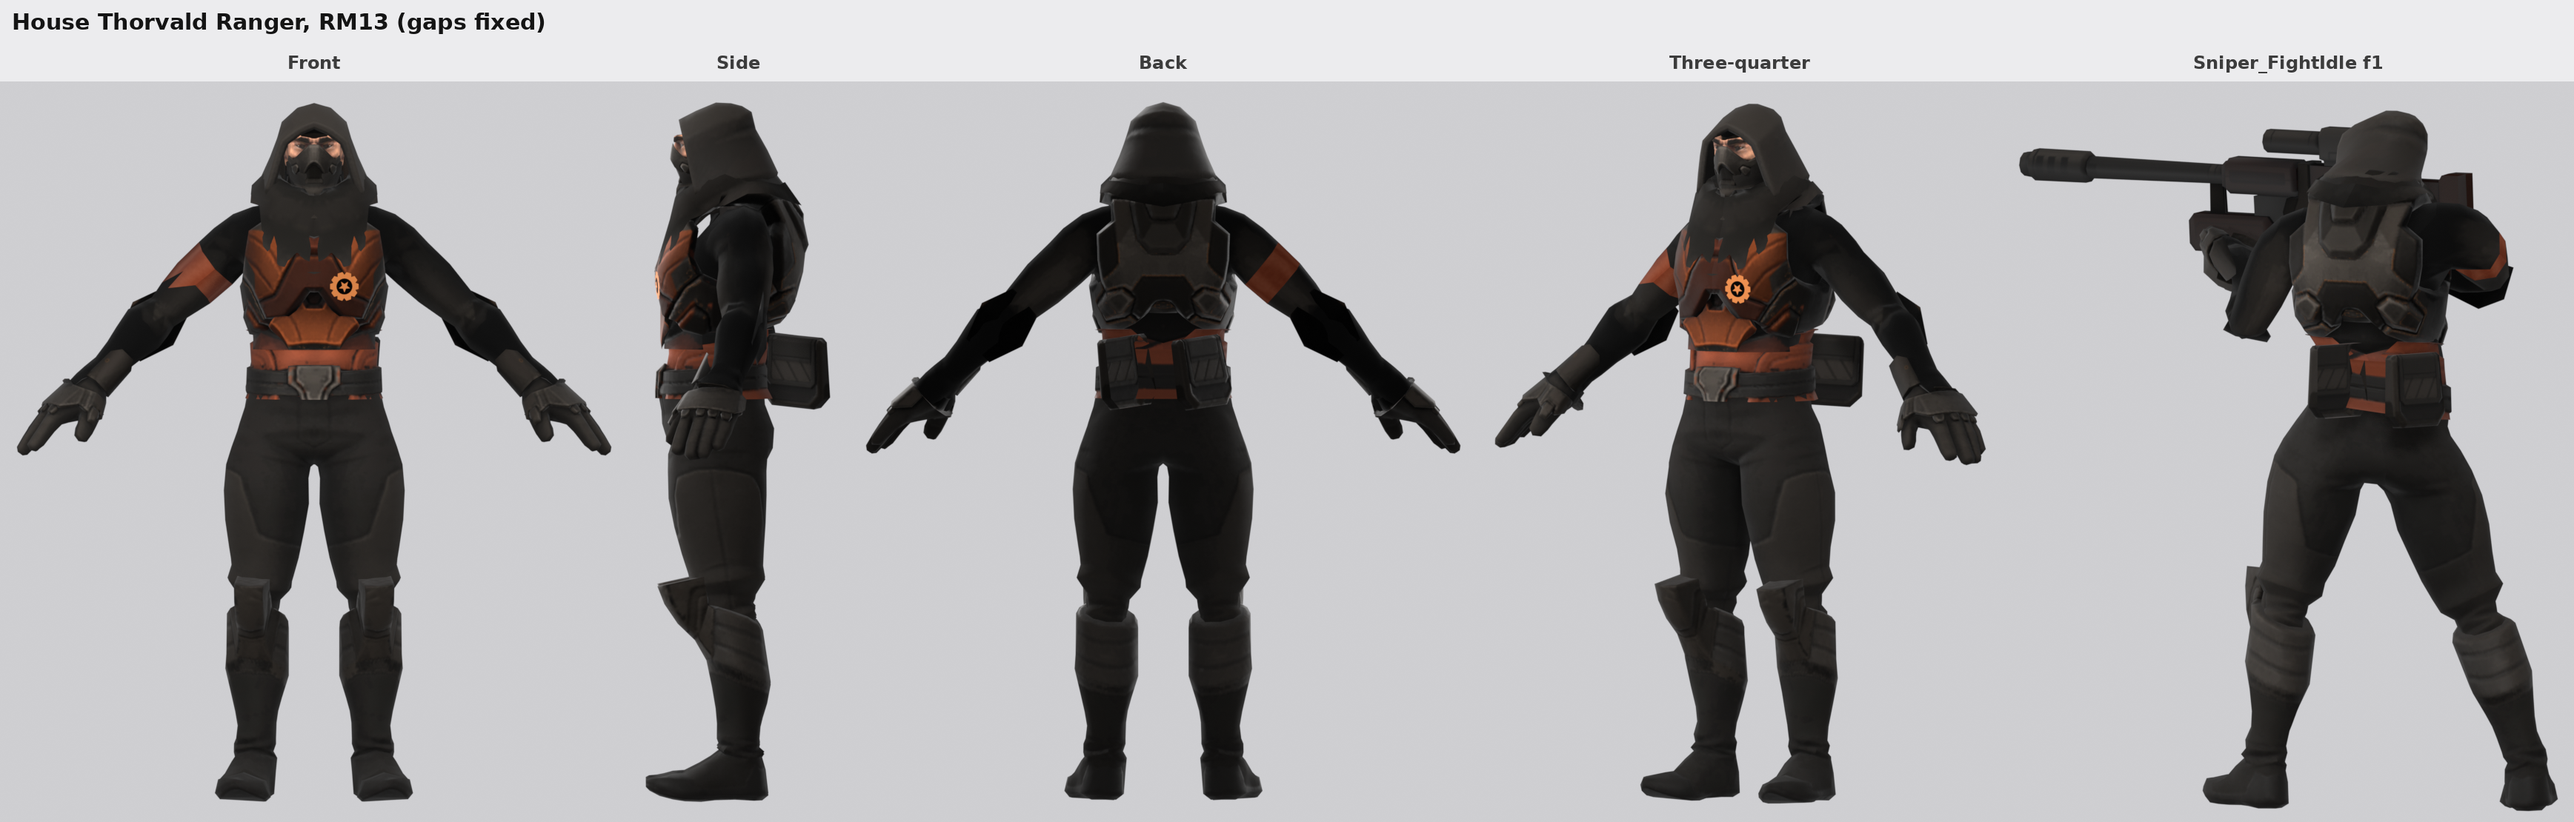
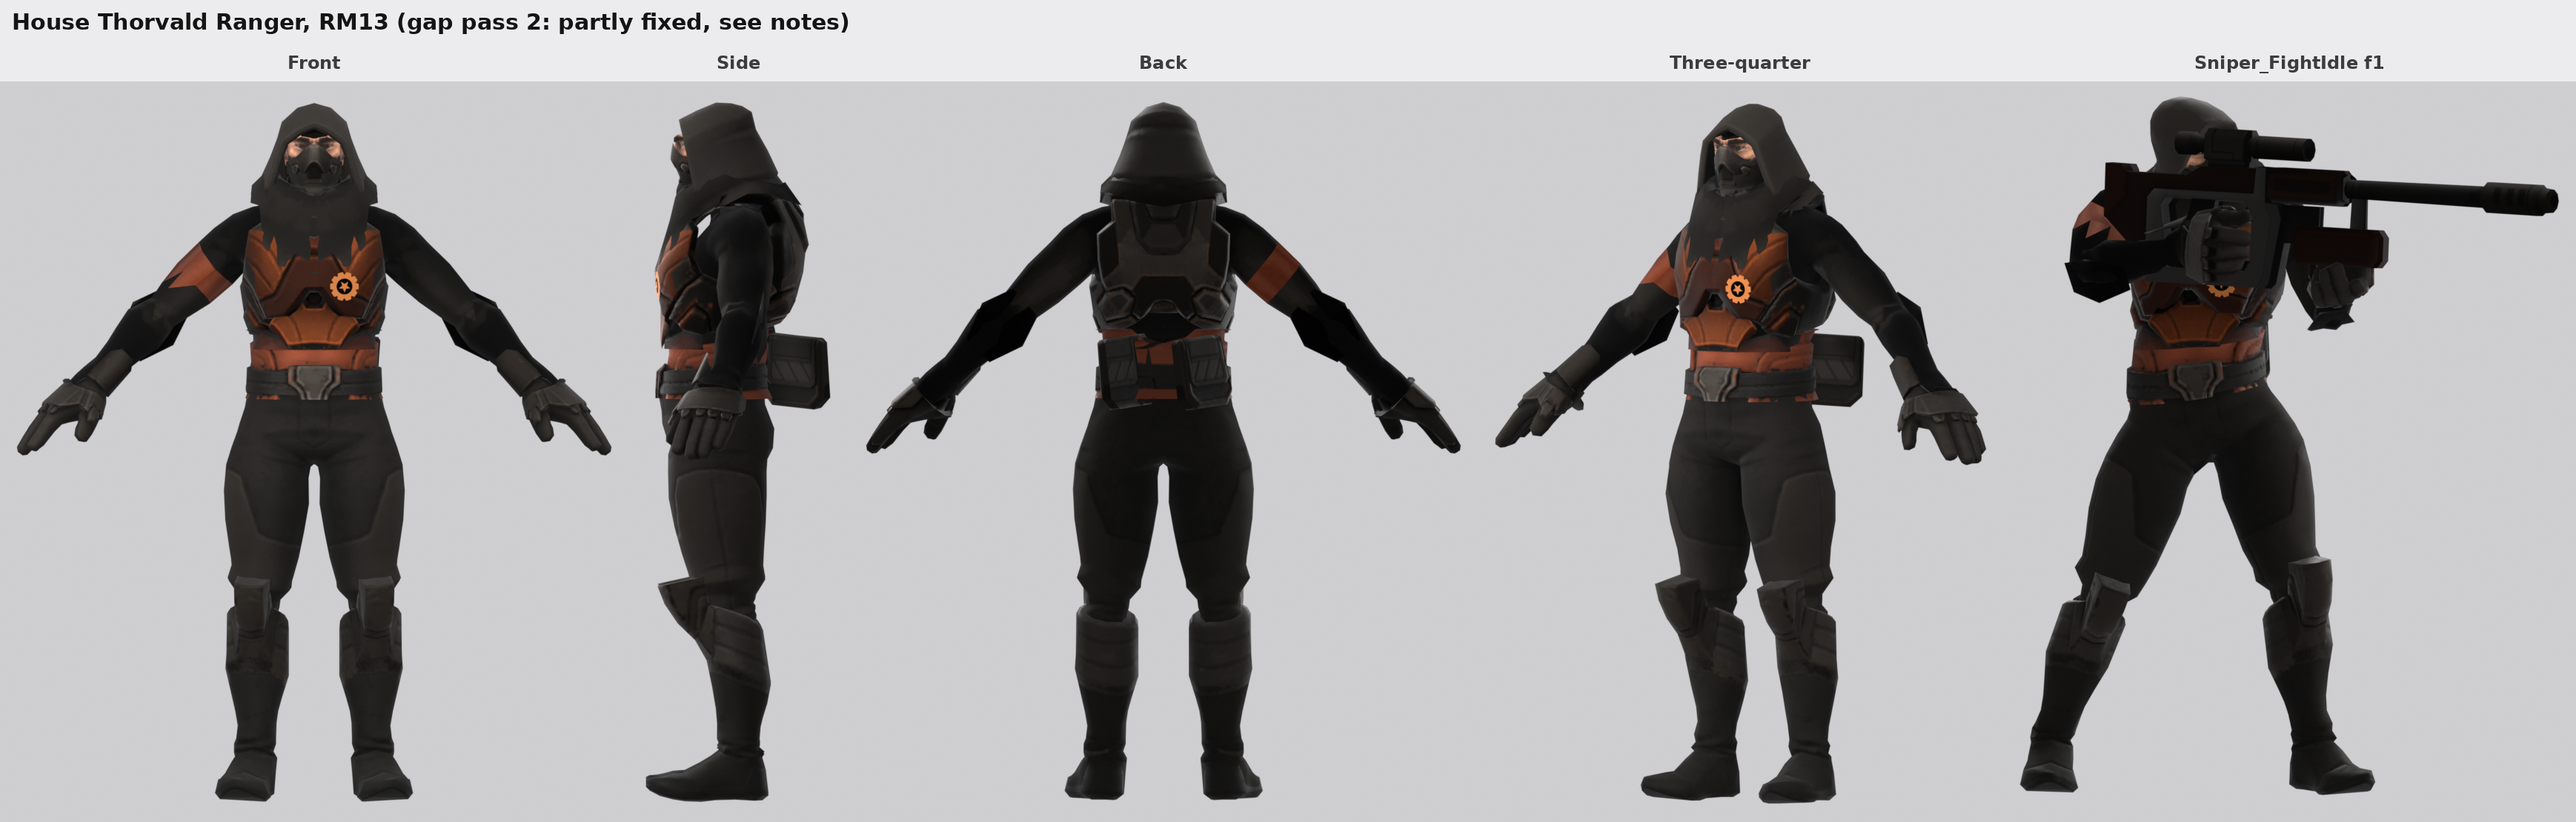
fix(dsw-model-qa): posed turnaround panel faces front; note open colour shards in the example
Claude-Session: https://claude.ai/code/session_01WAGFv9hvv5B7N4aZJzLptU

diff --git a/.claude/skills/dsw-model-qa/scripts/turnaround.py b/.claude/skills/dsw-model-qa/scripts/turnaround.py
@@ -42,7 +42,8 @@ for o in hidden:
 for spec in poses:
     clip, fr = spec.rsplit(":", 1)
     Q.pose_clip(clip, fr, anim_dir)
-    panels.append(("%s f%s" % (os.path.basename(clip).replace(".fbx", ""), fr), render("pose_%s_%s" % (os.path.basename(clip), fr), (0.6, -0.8, 0.08))))
+    # the game clips turn the unit to face +Y (rest pose faces -Y), so the front three-quarter of a posed unit is seen from +Y
+    panels.append(("%s f%s" % (os.path.basename(clip).replace(".fbx", ""), fr), render("pose_%s_%s" % (os.path.basename(clip), fr), (-0.6, 0.8, 0.08))))
 
 
 def crop(im):

diff --git a/.claude/skills/dsw-model-qa/references/example_thorvald_ranger.md b/.claude/skills/dsw-model-qa/references/example_thorvald_ranger.md
@@ -31,7 +31,9 @@ anything on the rifle. Real:
 - `weld_weights` at the nape changed 10 Gurney weights: the boundary verts there already shared weights, so the gap is not a weight split
   between those panels. Find it with `loops_near.py` on the posed position before choosing an op.
 - Welds removed 56 duplicate verts and `cap` added 3 faces at the neck rim; the rest-pose slit at the collar changed 25 → 24 px (the snap).
-- Colour: the plate region by face direction removed the sawtooth from the front; check it in AttackRange before calling it done.
+- Colour: choosing the plate region by face direction darkened the plate's sides, but orange flame-shaped shards remain at the plate's top
+  corners by the shoulders (visible in the RM13 turnaround front and ¾ views). The corner faces face forward and up, so the direction rule
+  still splits them; next try: the plate's upper corners by UV polygon (paint the whole corner panel one colour).
 
 ## What this example teaches (now in SKILL.md)
 1. Run `diff_blends.py` after every fix before rescanning: a no-op fix costs seconds to detect, a rescan costs 15 minutes.
@@ -39,6 +41,7 @@ anything on the rifle. Real:
 3. Localise with the posed geometry in mind: a gap that only opens in Run is usually weights, and the bone pair involved decides the fix.
 
 ## Next for this unit (not done at the time of writing)
+- Colour: the orange shards at the chest plate's upper corners (see above).
 - Pouches: transfer per-vertex weights to the inner (sash-facing) verts only, then give the rest of each island the weights of its nearest inner vert.
 - Nape: `loops_near.py Gurney -0.129,0.131,1.615` with the RM13 blend, then compare the weights on both sides of that loop in the Run pose.
 - Collar slit: cap the front notch with a tighter box after the weld, or snap the notch edge to the snood.

diff --git a/.claude/skills/dsw-model-qa/references/lessons.md b/.claude/skills/dsw-model-qa/references/lessons.md
@@ -7,6 +7,7 @@
 - **Enclosed transparency ≠ defect.** About two thirds of the candidates were natural space (between legs, arm/body, handle loops,
   fingers). Localise (`at` list) before fixing anything.
 - **`scene.ray_cast` hits `hide_render` objects.** Remove the weapon (`--drop`) instead of hiding it, or the localisation names it.
+- **Posed units face +Y.** A posed panel or close-up from the rest-pose "front" direction shows the back (`turnaround.py` handles it).
 - **The anim camera names lie.** Clips turn the unit to face +Y, so in `anim_shots.py` the "back" camera sees the chest. Check which side a
   crop shows before describing it.
 - **`clip_test.py` penetration counts that are the same in every clip are layering by design** (hood lining inside the shell, mask edges
